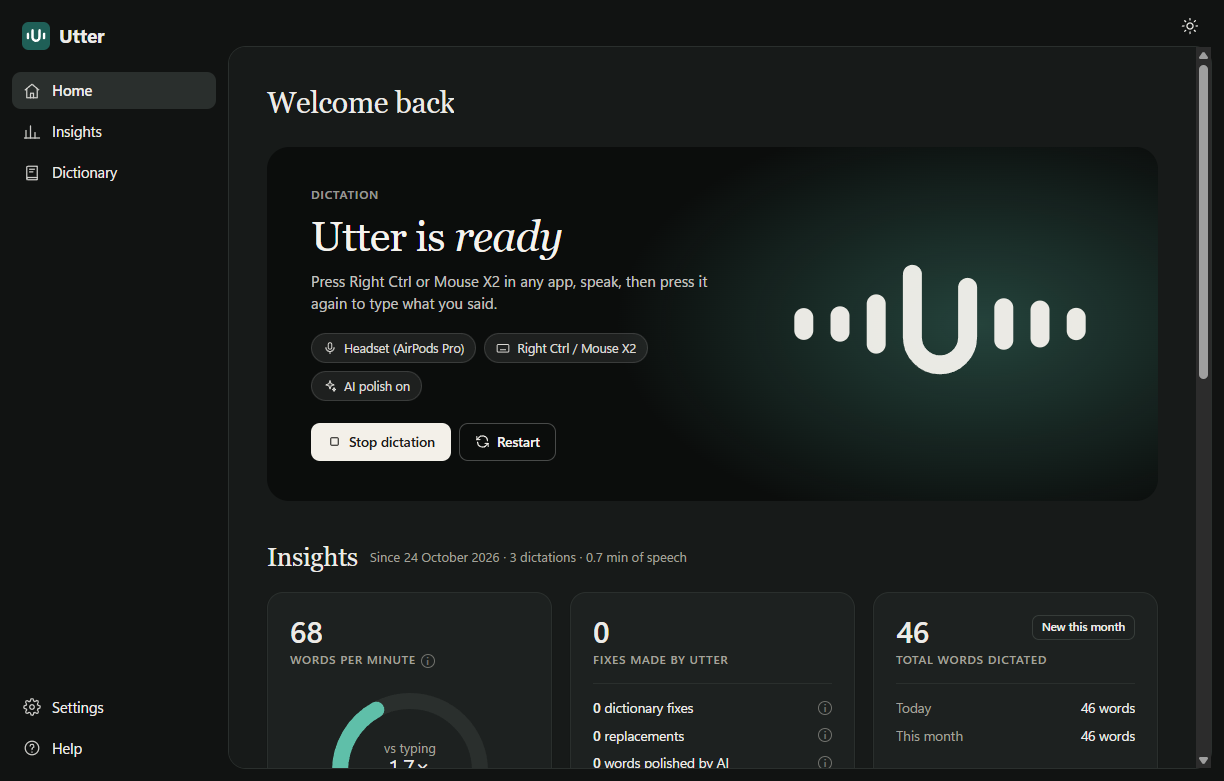
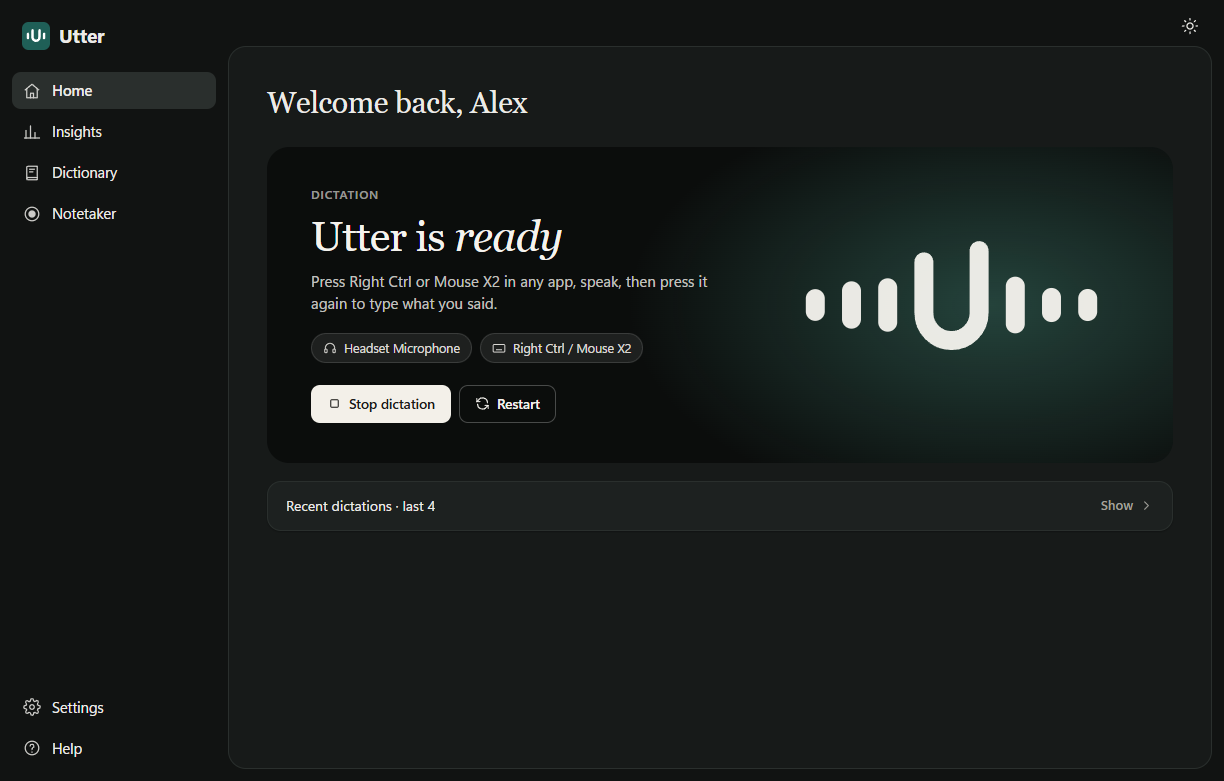
Show the current Home page in the README and on the launch page

diff --git a/site/index.html b/site/index.html
@@ -122,7 +122,7 @@
     <!-- Screenshot -->
     <section class="showcase" aria-label="The Utter app">
       <figure class="frame" id="frame">
-        <img src="assets/home.png" alt="The Utter window: a dictation banner with the animated Utter logo, then insights such as words per minute and fixes made." width="1224" height="781" loading="lazy">
+        <img src="assets/home.png" alt="The Utter window: a dictation banner with the animated Utter logo, then recent dictations; Insights, Dictionary and Notetaker are in the sidebar." width="1224" height="781" loading="lazy">
       </figure>
       <figcaption>The Utter window. Closing it leaves dictation running.</figcaption>
     </section>

diff --git a/README.md b/README.md
@@ -10,7 +10,7 @@
 </p>
 
 <p align="center">
-  <img src="docs/home.png" alt="Utter home screen: dictation banner with the animated Utter logo, then insights" width="900">
+  <img src="docs/home.png" alt="Utter home screen: the dictation banner with the animated Utter logo, then recent dictations" width="900">
 </p>
 
 ---
@@ -103,7 +103,7 @@ cd dictation; ..\.venv\Scripts\python.exe -m unittest discover -s util -p "test_
 .venv\Scripts\python.exe -B -m unittest discover -s skills/utter-stabilise/tests
 ```
 
-The tests run offline and need no speech server.
+The tests run offline and need no speech server. Two of them touch Windows itself and clean up after themselves: one copies text to the clipboard and puts your previous clipboard back, and one stores and deletes a test entry (`Utter/unit-test-secret`) in Windows Credential Manager.
 
 ---
 
